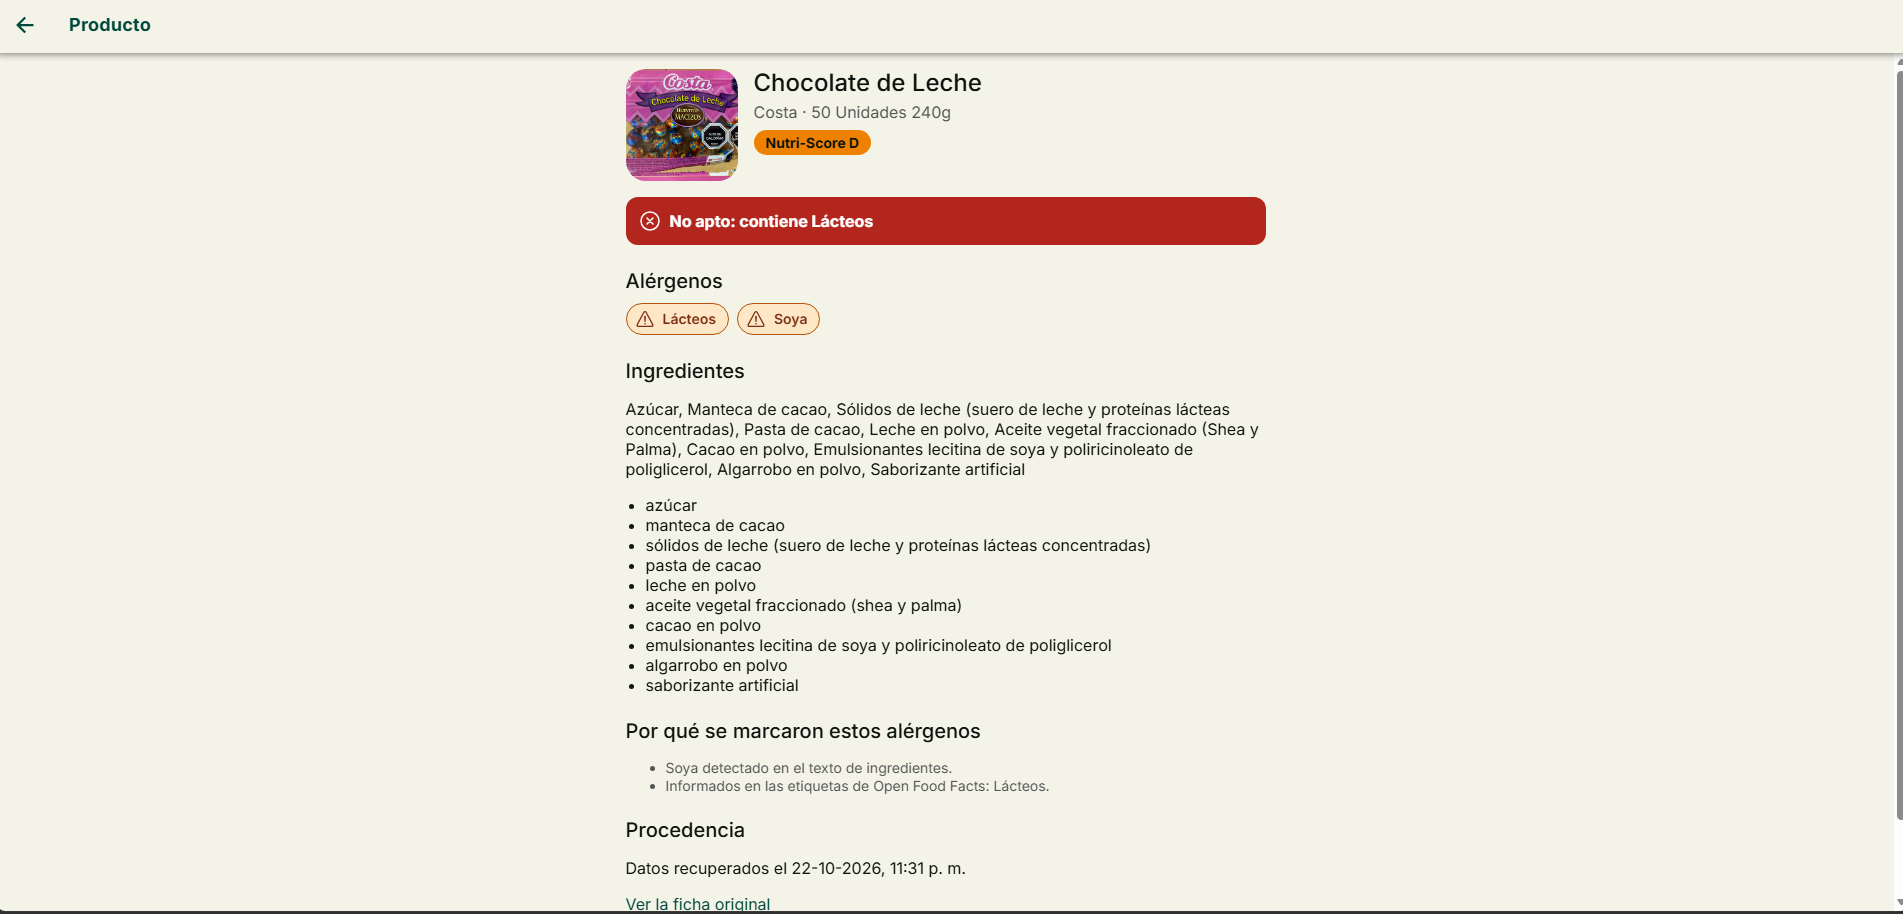
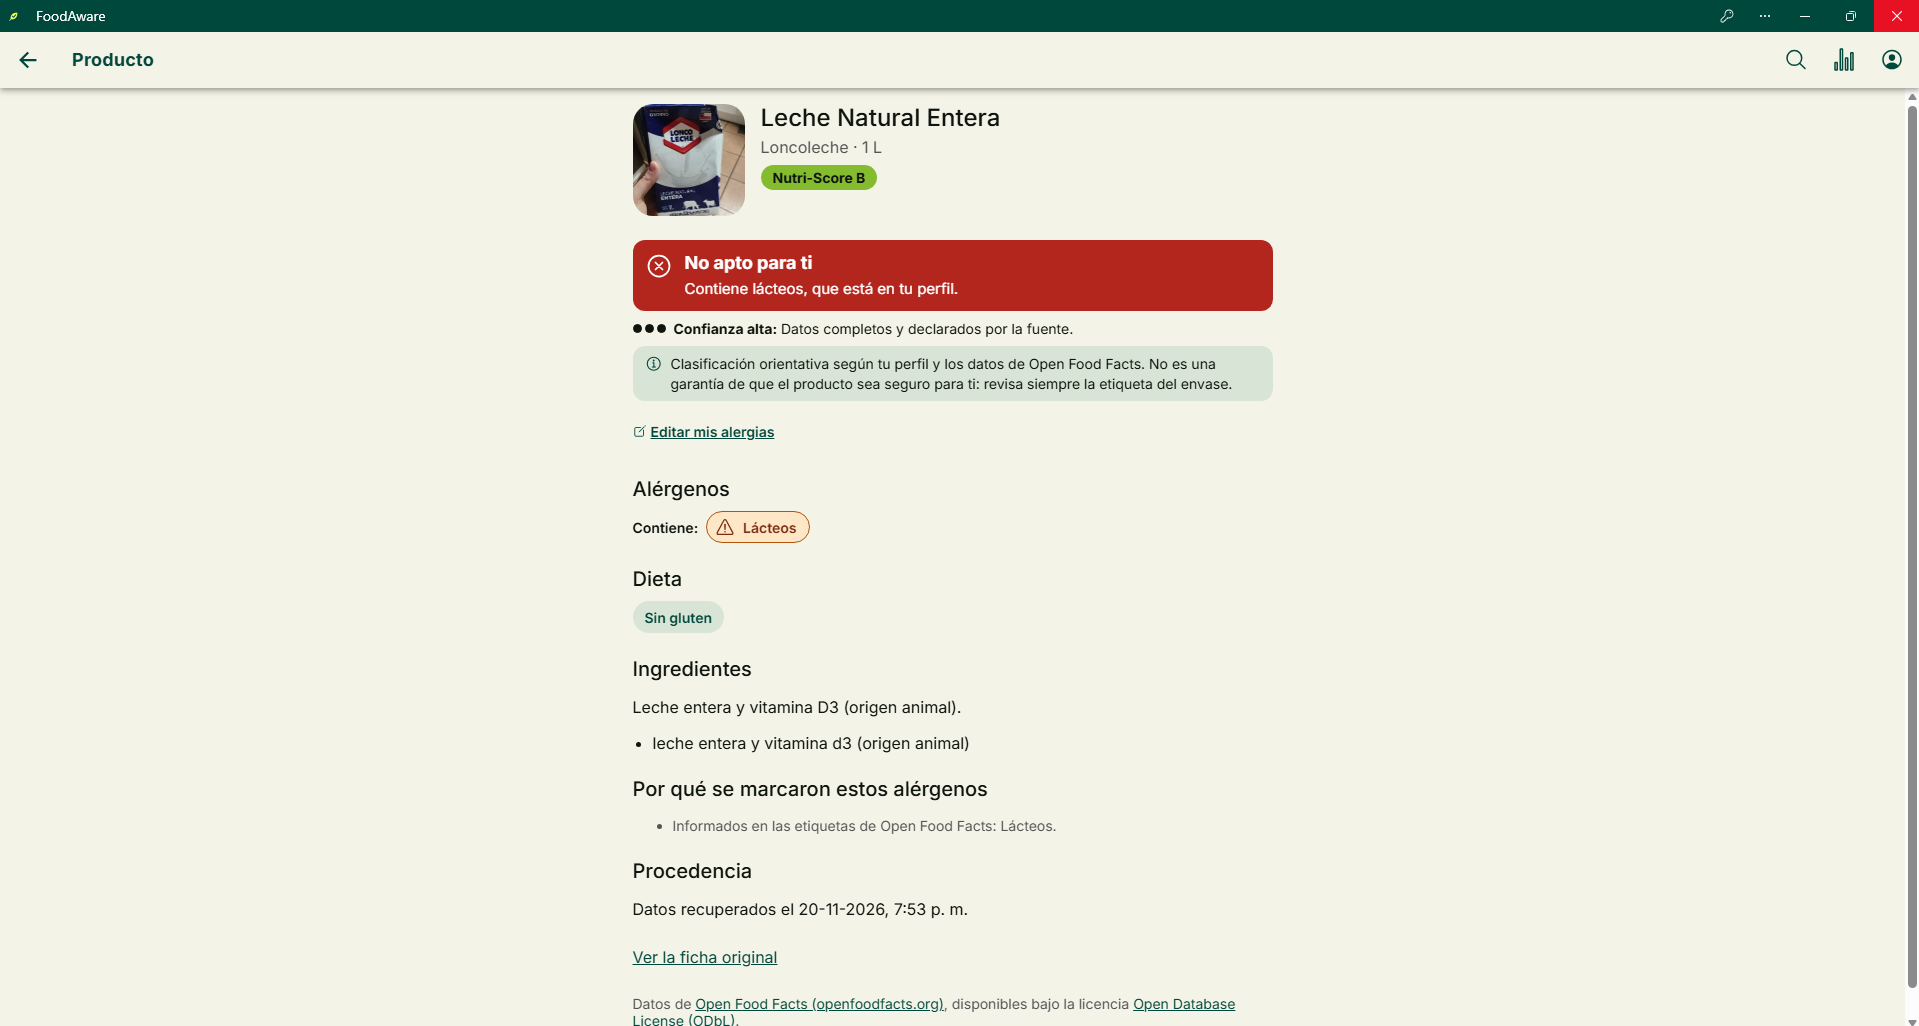
docs: agregar capturas de la entrega final y actualizar la evidencia
Capturas de la web, la PWA y la app de Android en docs/evidencia, con los correos personales pixelados. no-apto.png y panel-metricas.png reemplazadas por las versiones actuales (Precision@5 53 %).

Changed region(s): [[0.0, 0.0, 1.0, 1.0]]

diff --git a/docs/frontend.md b/docs/frontend.md
@@ -152,7 +152,7 @@ npm run android:apk    # lo anterior y compila el APK de depuración (android/ap
 - Por defecto apunta al backend de **staging**; `API_URL` lo cambia.
 - `android:apk` necesita `JAVA_HOME` (JDK 21) y `ANDROID_HOME` (SDK de Android) o `android/local.properties`. El APK queda firmado con la clave de depuración local.
 - **CORS:** la app tiene el origen `https://localhost`, que **ya está en `CORS_ORIGINS` de staging**. Si se despliega otro backend, hay que agregarlo.
-- **Estado de la prueba:** la app se probó en un emulador de Android contra staging. No se probó en un dispositivo físico, y el APK es de depuración, no de publicación.
+- **Estado de la prueba:** la app se probó en un emulador de Android contra staging ([capturas](#android)). No se probó en un dispositivo físico, y el APK es de depuración, no de publicación.
 
 ## Configuración y build
 
@@ -190,13 +190,43 @@ npm start   # http://localhost:4200
 
 ## Evidencia
 
+Las capturas web se tomaron en el escritorio y las de Android, en un emulador contra staging. Los correos de otras personas están pixelados.
+
+### Web
+
 | Captura | Muestra |
 |---|---|
-| `docs/evidencia/respaldo-chocolate.png` | Aviso de respaldo con resultados desde la base |
-| `docs/evidencia/panel-metricas.png` | Panel de métricas con la ingesta completada (P@5 = 56 %, valor de la EP2; el de referencia actual es 0,53, ver [recuperacion-y-evaluacion.md](recuperacion-y-evaluacion.md)) |
-| `docs/evidencia/detalle-producto.png` | Detalle con alérgenos, procedencia y atribución ODbL |
-| `docs/evidencia/apto-para-ti.png` | Franja "Apto para ti" con sesión iniciada |
-| `docs/evidencia/no-apto.png` | Franja "No apto: contiene …" (texto de la EP2; hoy dice "No apto para ti") |
+| [respaldo-chocolate.png](evidencia/respaldo-chocolate.png) | Aviso de respaldo con resultados desde la base |
+| [busqueda.png](evidencia/busqueda.png) | Búsqueda "Leche" sin sesión: 197 resultados, alérgenos en neutro e invitación a iniciar sesión para personalizar |
+| [busqueda-personalizada.png](evidencia/busqueda-personalizada.png) | Búsqueda "Chocolate" con "Personalizar según mi perfil" y "Ocultar no aptos": 23 resultados con chip "Apto", resumen de los 84 ocultos (75 por lácteos y 49 por gluten) y aviso orientativo |
+| [chips-alergenos.png](evidencia/chips-alergenos.png) | "Chocolate" con la personalización apagada: con sesión, solo lácteos y gluten (las alergias del perfil) van en ámbar con ícono de advertencia, y los demás alérgenos en neutro |
+| [detalle-producto.png](evidencia/detalle-producto.png) | Detalle con alérgenos, procedencia y atribución ODbL |
+| [producto.png](evidencia/producto.png) | Detalle sin sesión: sin veredicto, con la invitación "Inicia sesión para saber si es apto para ti" y el alérgeno en neutro |
+| [apto-para-ti.png](evidencia/apto-para-ti.png) | Franja "Apto para ti" con sesión iniciada |
+| [no-apto.png](evidencia/no-apto.png) | Franja "No apto para ti: Contiene lácteos, que está en tu perfil", con "Confianza alta" y el aviso orientativo |
+| [perfil.png](evidencia/perfil.png) | Perfil: nombre, alergias (lácteos y gluten marcadas), dietas, modo estricto, guardar cambios, cerrar sesión y borrar la cuenta |
+| [admin.png](evidencia/admin.png) | Panel de administración: usuarios (nombre, correo y rol, sin alergias) y alimentos analizados |
+| [panel-metricas.png](evidencia/panel-metricas.png) | Panel de métricas con el botón de administración visible: Precision@5 = 53 %, Recall@5 = 48,2 %, 20 consultas y 385 productos (ver [recuperacion-y-evaluacion.md](recuperacion-y-evaluacion.md)) |
+| [limite-login.png](evidencia/limite-login.png) | Login tras superar el límite de peticiones: "Demasiados intentos, espera un minuto." |
+
+### PWA
+
+| Captura | Muestra |
+|---|---|
+| [pwa-instalada.png](evidencia/pwa-instalada.png) | La app instalada, en su propia ventana, con sesión de administrador |
+| [pwa-sin-conexion.png](evidencia/pwa-sin-conexion.png) | Sin conexión: la búsqueda "Leche" ya visitada se sigue viendo desde la caché y aparece el aviso "Sin conexión" |
+| [pwa-sin-conexion-busqueda-nueva.png](evidencia/pwa-sin-conexion-busqueda-nueva.png) | Sin conexión, una búsqueda que no se había hecho ("chocolate"): "No hay conexión a internet." |
+
+### Android
+
+| Captura | Muestra |
+|---|---|
+| [android-home.png](evidencia/android-home.png) | Inicio sin sesión, con "Inicia sesión para personalizar" |
+| [android-registro.png](evidencia/android-registro.png) | Registro: contraseña de mínimo 8 caracteres y selección de alergias |
+| [android-busqueda-personalizada.png](evidencia/android-busqueda-personalizada.png) | Búsqueda personalizada con "Ocultar no aptos": 10 resultados con chip "Apto" y 97 ocultos por soya, lácteos y maní |
+| [android-con-advertencia.png](evidencia/android-con-advertencia.png) | Resultados con chip "Con advertencia" (borde discontinuo) junto a otros "Apto" |
+| [android-no-apto.png](evidencia/android-no-apto.png) | Detalle con "No apto para ti", confianza alta, aviso orientativo y el alérgeno del perfil en ámbar |
+| [android-admin.png](evidencia/android-admin.png) | Panel de administración en el celular |
 
 ## Limitaciones
 

diff --git a/docs/capacidad-adaptativa.md b/docs/capacidad-adaptativa.md
@@ -137,6 +137,15 @@ La evaluación completa (método, etiquetado manual, resultados y limitaciones) 
 | Edición del perfil: alergias, dietas, modo estricto | `frontend/src/app/cuenta` |
 | Alérgenos del perfil destacados; los demás, neutros | `frontend/src/app/compartido/chips-alergenos.component.ts` |
 
+**Evidencia de la Entrega Final** (más en [frontend.md](frontend.md#evidencia)):
+
+| Captura | Muestra |
+|---|---|
+| [no-apto.png](evidencia/no-apto.png) | Veredicto "No apto para ti" con explicación, confianza alta y aviso orientativo |
+| [busqueda-personalizada.png](evidencia/busqueda-personalizada.png) | Búsqueda con el perfil: chips de veredicto, resumen de los productos ocultos y aviso |
+| [android-con-advertencia.png](evidencia/android-con-advertencia.png) | Resultados "Con advertencia" junto a "Apto", en Android |
+| [perfil.png](evidencia/perfil.png) | Alergias, dietas y modo estricto, que forman el perfil enviado al motor |
+
 **Ejemplo (EP2):** la búsqueda "chocolate" devolvió 32 productos guardados. Para un usuario alérgico a los lácteos, el filtro de aquella versión devolvió 9. Hoy esa decisión la toma el motor y además considera trazas, dietas y el modo estricto. Evidencia de la EP2: `docs/evidencia/compatibles-swagger.png`.
 
 ## 10. Riesgos, sesgos y limitaciones

diff --git a/docs/backend.md b/docs/backend.md
@@ -289,6 +289,9 @@ DB_HOST=localhost DB_PORT=5433 PYTHON_API_URL=http://localhost:8000 npm run star
 | Captura | Muestra |
 |---|---|
 | `docs/evidencia/respaldo-chocolate.png` | Búsqueda con FastAPI caído: respuesta desde la base con aviso |
+| [limite-login.png](evidencia/limite-login.png) | El sexto login en un minuto responde 429 y el frontend muestra "Demasiados intentos, espera un minuto." (límite de peticiones) |
+| [no-apto.png](evidencia/no-apto.png) | Veredicto del motor adaptativo en el detalle: "No apto para ti", con explicación, confianza y aviso |
+| [admin.png](evidencia/admin.png) | Ruta de administrador (`GET /api/usuarios` y `GET /api/food`): usuarios sin alergias y alimentos analizados |
 | `docs/evidencia/compatibles-swagger.png` | `/compatibles` con alergia a lácteos: 9 de 32 chocolates (de la EP2, cuando filtraba en SQL; hoy usa el motor) |
 
 ## Limitaciones
